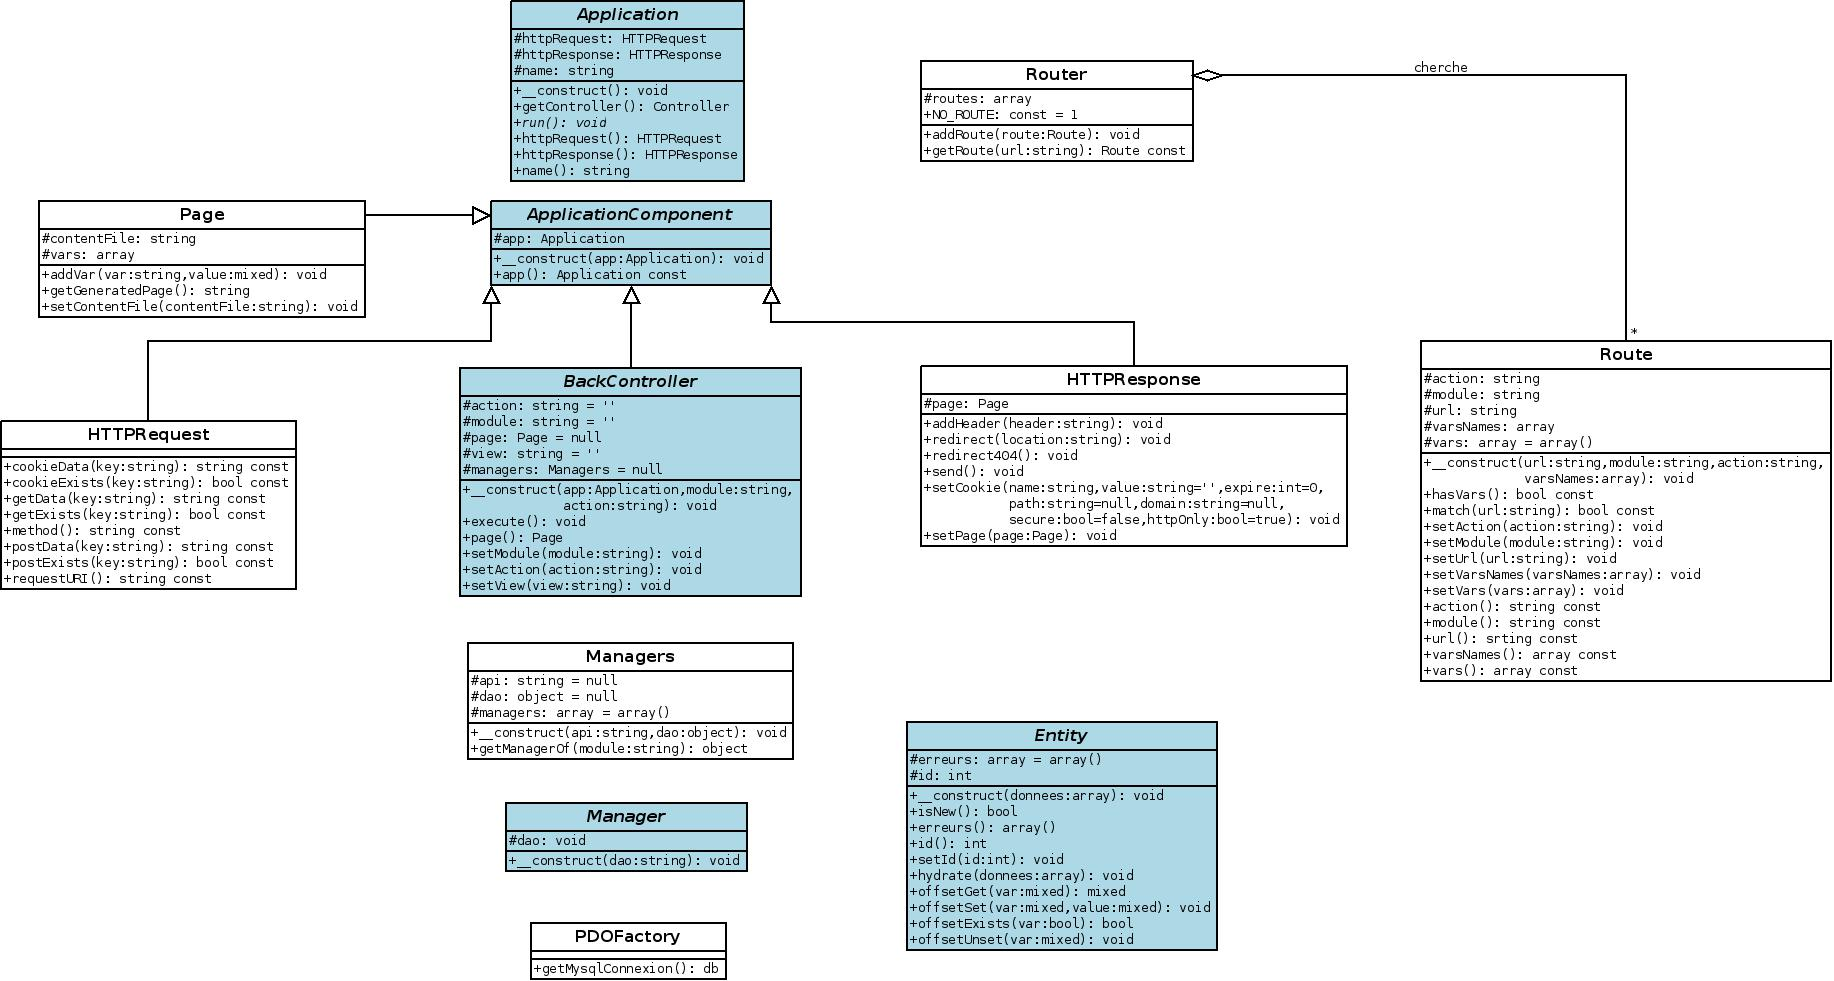
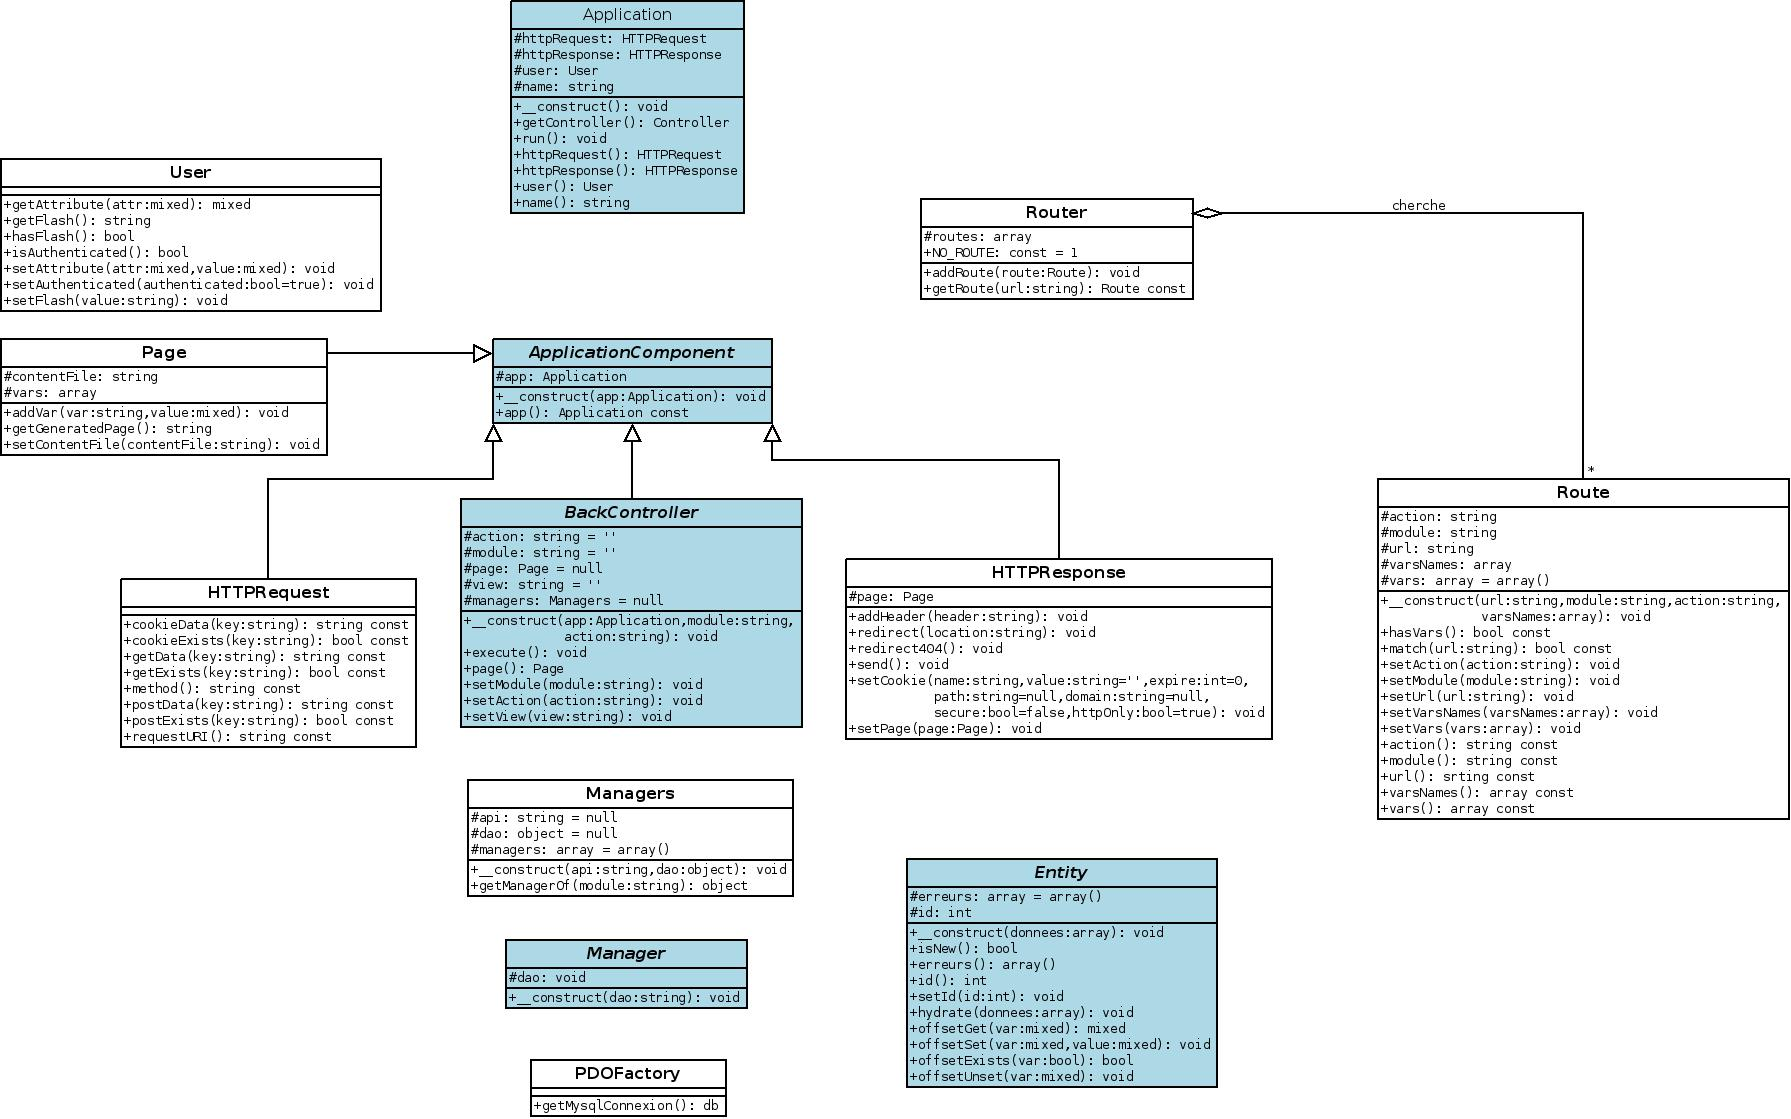
Concevoir et coder la class User + mettre à jour la class Application

diff --git a/lib/OCFram/User.php b/lib/OCFram/User.php
@@ -1,0 +1,97 @@
+<?php
+
+namespace OCFram;
+
+session_start();
+
+/**
+ * La class user gère la session de l'internaute qui se connecte
+ * 
+ * @author      Christophe Malo
+ * @date        17/02/2016
+ * @version     1.0.0
+ * @copyright   OpenClassrooms - Victor Thuillier
+ */
+class User {
+    
+    /*************** accesseurs - getters ***************/
+    /**
+     * Obtenir la valeur d'un attribut
+     * 
+     * @param  mixed $attr
+     * @return mixed $attr
+     */
+    public function getAttribute($attr) {
+        return $this->$attr;
+    }
+    
+    /**
+     * Récupérer un message informatif
+     * 
+     * @return string $flash
+     */
+    public function getFlash() {
+        $flash = $_SESSION['flash'];
+        unset($_SESSION['flash']);
+
+        return $flash;
+    }
+
+    /**
+     * Savoir si l'utilisateur a ce message (informatif) assigné
+     * 
+     * @return bool
+     */
+    public function hasFlash() {
+        return isset($_SESSION['flash']);
+    }
+    
+    /**
+     * Savoir si l'utilisateur est authentifié
+     * 
+     * @return bool
+     */
+    public function isAuthenticated() {
+        return isset($_SESSION['auth']) && $_SESSION['auth'] === true;
+    }
+    
+    
+
+    /*************** mutateurs - setters ***************/
+    /**
+     * Obtenir la valeur d'un attribut
+     * 
+     * @param  mixed $attr, mixed value
+     * @return void
+     */
+    public function setAttribute($attr, $value) {
+        $_SESSION[$attr] = $value;
+    }
+    
+    /**
+     * Authentifier l'utilisateur
+     * Utile pour un formulaire de connexion
+     * 
+     * @param bool=true $authenticated 
+     * @return void
+     */
+    public function setAuthenticated($authenticated = true) {
+        if (!is_bool($authenticated)) {
+            throw new \InvalidArgumentException('La valeur spécifiée à la méthode User::setAuthenticated() doit être un boolean');
+        }
+
+        $_SESSION['auth'] = $authenticated;
+    }
+
+    /**
+     * Assigner un message informatif
+     * Le message est affiché sur la page
+     * 
+     * @param  string $value
+     * @return void
+     */
+    public function setFlash($value) {
+        $_SESSION['flash'] = $value;
+    }
+
+}

diff --git a/lib/OCFram/Application.php b/lib/OCFram/Application.php
@@ -14,11 +14,13 @@ namespace OCFram;
 abstract class Application {
     protected $httpRequest,
               $httpResponse,
+              $user,
               $name;
     
     public function __construct() {
         $this->httpRequest  = new HTTPRequest($this);
         $this->httpResponse = new HTTPResponse($this);
+        $this->user         = new User($this);
         $this->name         = '';
     }
     
@@ -69,6 +71,10 @@ abstract class Application {
     
     public function httpResponse() {
         return $this->httpResponse;
+    }
+    
+    public function user() {
+        return $this->user;
     }
     
     public function name() {
